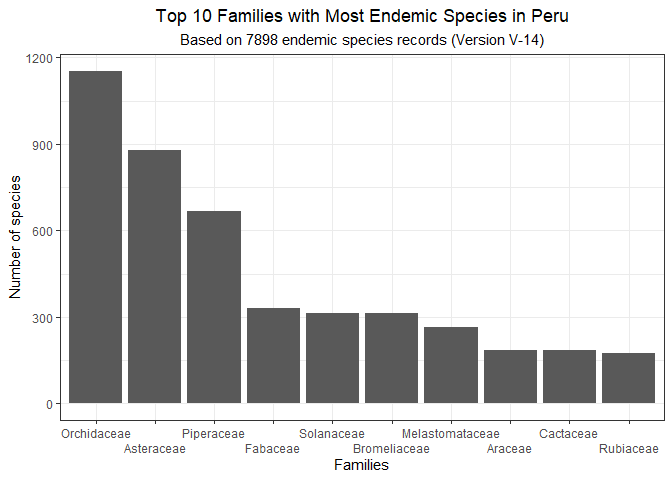
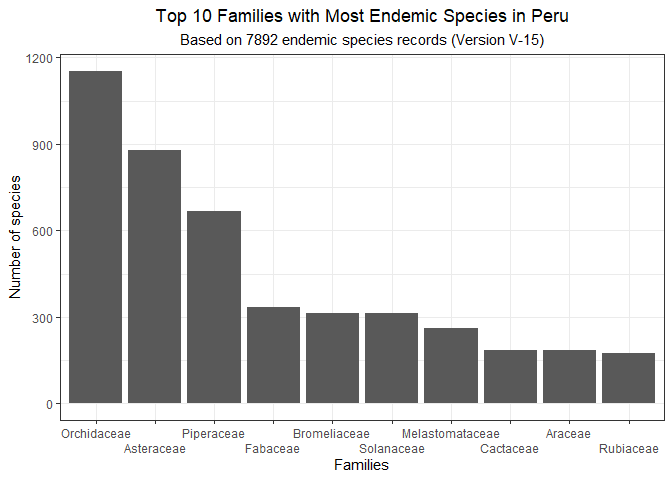
readme

Changed region(s): [[0.4375, 0.875, 0.6562, 0.9688], [0.7188, 0.875, 0.875, 0.9688], [0.7812, 0.0625, 0.8125, 0.0938]]

diff --git a/README.md b/README.md
@@ -20,7 +20,7 @@ coverage](https://codecov.io/gh/PaulESantos/ppendemic/branch/main/graph/badge.sv
 ## Overview
 
 This package offers convenient access to a new and extensive database
-containing a list of 7898 endemic plant species found in Peru. This
+containing a list of 7892 endemic plant species found in Peru. This
 comprehensive collection provides detailed botanical information,
 including accepted names, family, genus, species, infraspecific
 taxonomy, authorship, publication details, and temporal information
@@ -42,7 +42,7 @@ By incorporating meticulously curated data from WCVP following the
 International Code of Nomenclature for algae, fungi, and plants (ICN),
 this package offers users a reliable and accurate resource to explore,
 analyze, and gain deeper insights into the rich diversity of Peru’s
-endemic flora. The latest version (V-14, dated 28-05-2025) includes
+endemic flora. The latest version (V-15, dated 06-01-2026) includes
 enhanced temporal bibliographic information with sophisticated year
 extraction capabilities, distinguishing between actual and nominal
 publication years for improved citation accuracy.
@@ -50,7 +50,7 @@ publication years for improved citation accuracy.
 Representing a significant advancement in our understanding of Peru’s
 endemic plant species, the ppendemic package update the previously known
 list of 5,507 species presented in the Red Book of Endemic Plants of
-Peru, bringing the total to an impressive 7898 species. This substantial
+Peru, bringing the total to an impressive 7892 species. This substantial
 increase in documented endemic species is a testament to the continuous
 integration of updated taxonomic data and the commitment to presenting
 the most current information available. With this expanded and current
@@ -60,13 +60,13 @@ unique and diverse plant biodiversity.
 
 The database spans a total of 165 families, with particular richness
 observed in the Orchidaceae, Asteraceae, Piperaceae, Fabaceae,
-Solanaceae, Bromeliaceae, Melastomataceae, Cactaceae, Araceae, Rubiaceae
+Bromeliaceae, Solanaceae, Melastomataceae, Cactaceae, Araceae, Rubiaceae
 families, all of which boast the highest number of endemic species in
-Peru. The enhanced dataset now includes 160 records where actual and
+Peru. The enhanced dataset now includes 159 records where actual and
 nominal publication years differ, providing valuable insights into
 historical botanical publishing practices.
 
-<img src="man/figures/README-unnamed-chunk-2-1.png" width="100%" />
+<img src="man/figures/README-unnamed-chunk-2-1.png" alt="" width="100%" />
 
 ## Installation
 
@@ -92,7 +92,7 @@ session using:
 
 ``` r
 library(ppendemic)
-#> This is ppendemic 0.1.9
+#> ── Access Peruvian plant endemic data ─────────────────────── ppendemic 0.2.0 ──
 ```
 
 - Use `is_ppendemic()` to check if taxa are endemic